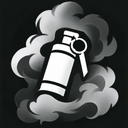
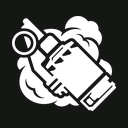
Swap the smoke tile for the new grenade art
All three tiles are now the same treatment: a white mark keyed off its
own background by luminance, recomposited on one card black, scaled to
fill 104 of the 128px square so they read as the same weight. The smoke
one was the last painted card left and looked busy beside the other two.

Built from the clean 1024px version rather than the first screenshot -
that one was 330px with a gradient background, and keying it left the
puffs mushy and the grenade soft at tile size.

Cropped inside the white frame with a margin; without one an edge of it
survives the downscale as a stray line, which is what went wrong on the
first pass at the roll icon.

Checked at 58px: all three load, match in weight, no console errors.

diff --git a/CLAUDE.md b/CLAUDE.md
@@ -639,11 +639,11 @@ The glyphs are Jack's artwork (`assets/cd-roll.png`, `cd-fire.png`,
 `cd-smoke.png`), painted cards rather than pictograms, so they FILL the tile
 via `object-fit:cover` and round with it through `border-radius:inherit` -
 `overflow:hidden` is not an option, since the key and charge badges hang
-outside the edge on purpose. The fire and smoke sources are framed in a grey
-border on a near-black card; that frame is cropped off and the card black
-is what every tile is padded with, so the three sit on one background. The
-roll art is a bare glyph with no card, so it is keyed off its own
-background by luminance and recomposited on that same black.
+outside the edge on purpose. All three are now white marks keyed off their own
+background by luminance and recomposited on one card black (21,23,20), each
+scaled to fill 104 of its 128px square so they read as the same weight. Two
+of the sources carry a frame around the art; crop inside it with a margin,
+or an edge of it survives the downscale as a stray line.
 `updateCooldowns()` is called from `loop()`, **not** `updateHUD()`: that one
 is event-driven and a countdown hung off it sits frozen between shots. It
 therefore runs every frame, so every write is guarded on the value actually
